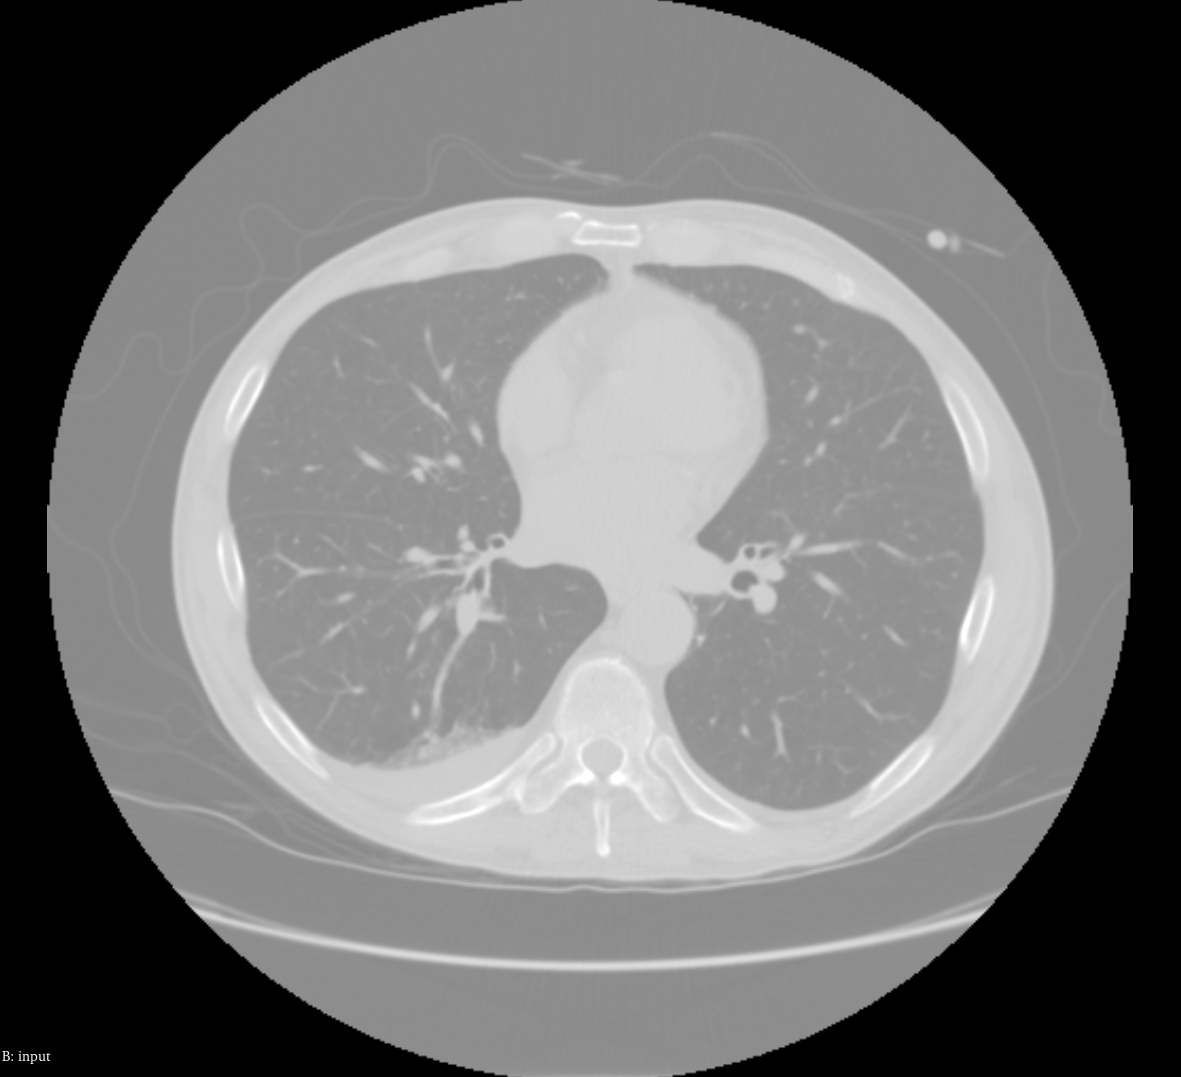
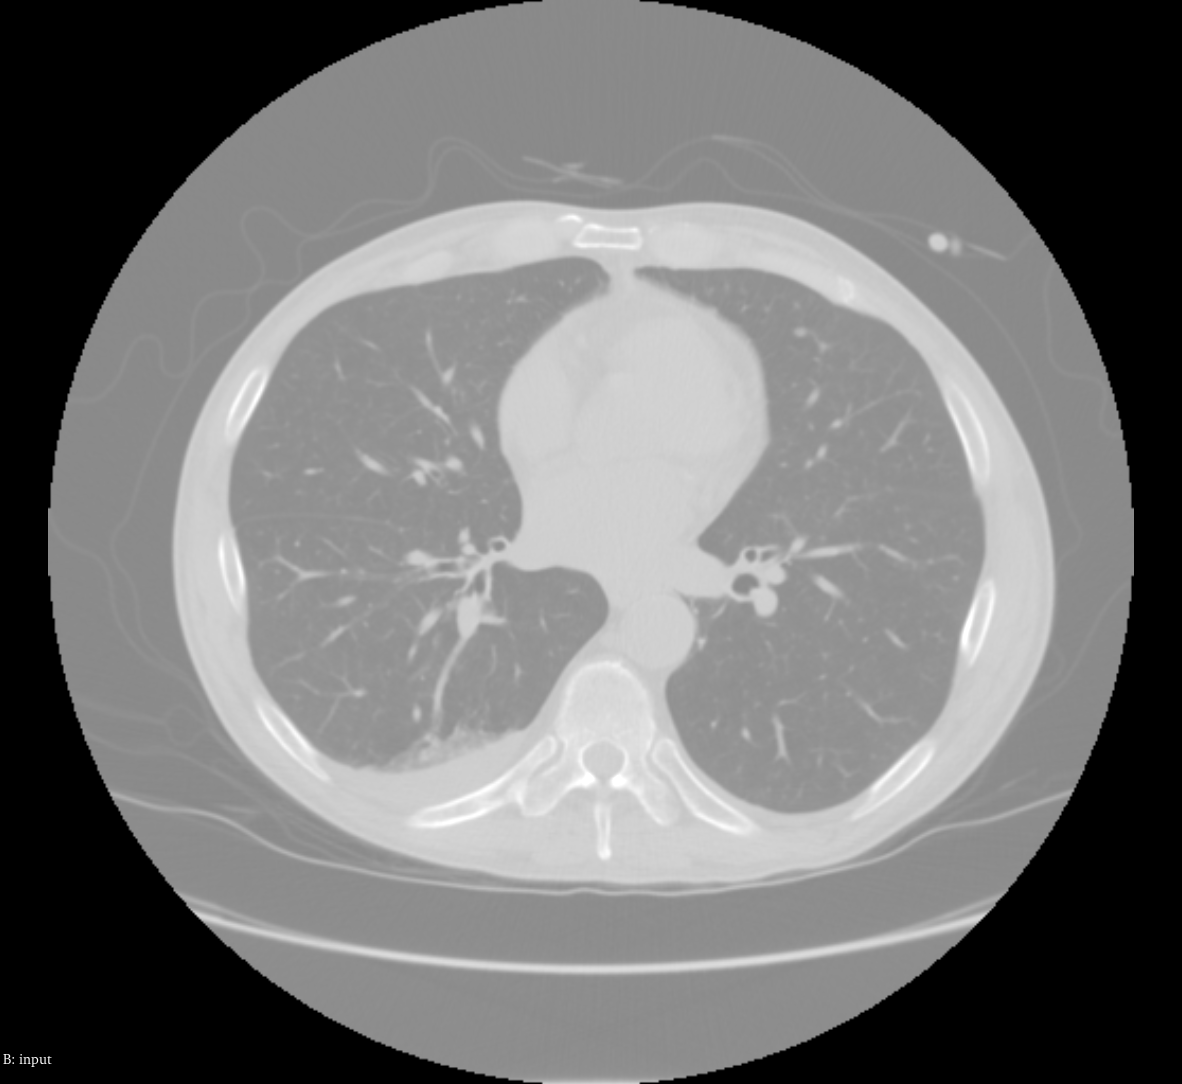
Complete the coding of Curvature AD

diff --git a/src/CurvatureAD/README.md b/src/CurvatureAD/README.md
@@ -1,0 +1,42 @@
+# CurvatureAD — Parameter Selection for Smoothing with Edge Preservation
+
+## Overview
+
+Curvature anisotropic diffusion applies diffusion along the iso-intensity
+level sets (tangential direction) rather than isotropically. The update is
+driven by mean curvature of the level set surface, making the filter
+equivalent to mean-curvature motion. This produces a "cartoon" smoothing
+effect: flat regions become very homogeneous while level-set boundaries
+remain crisp.
+
+## Comparison with GradientAD
+
+| Property | GradientAD | CurvatureAD |
+|----------|-----------|-------------|
+| Diffusion direction | Isotropic within |Along level sets |
+| Edge sharpness | Very good | Excellent |
+| Interior smoothing | Good | Very good (more homogeneous) |
+| Thin structure preservation | Moderate | Better |
+| Computational cost | Similar | Similar |
+
+CurvatureAD tends to produce cleaner, more uniform interior regions because
+it smooths along edges rather than up to them. It is preferable when downstream
+segmentation requires homogeneous regions.
+
+## Parameters
+
+The same three parameters (conductance, timeStep, iterations) apply as in
+GradientAD, with identical stability constraints (dt ≤ 0.0625 for 3D).
+
+**Conductance (K):**
+- K = 1.0: Very strong edge preservation; minimal interior smoothing per step.
+- K = 2.0–3.0: Good smoothing of noisy regions with sharp boundary retention.
+- K = 5.0+: Edges soften; behavior approaches isotropic diffusion.
+
+## Example
+
+
+
+|              Input              | Gaussian AD (Conductance=5, Time Step=0.1, Iterations=5) | Curvature AD (Conductance=5, Time Step=0.1, Iterations=5)      |
+|:-------------------------------:|:--------------------------------------------------------:|----------------------------------------------------------------|
+| ![input axial slice](input.png) |     ![corresponding output axial slice](output.png)      |                              ![corresponding output axial slice](output.png)                                  |
